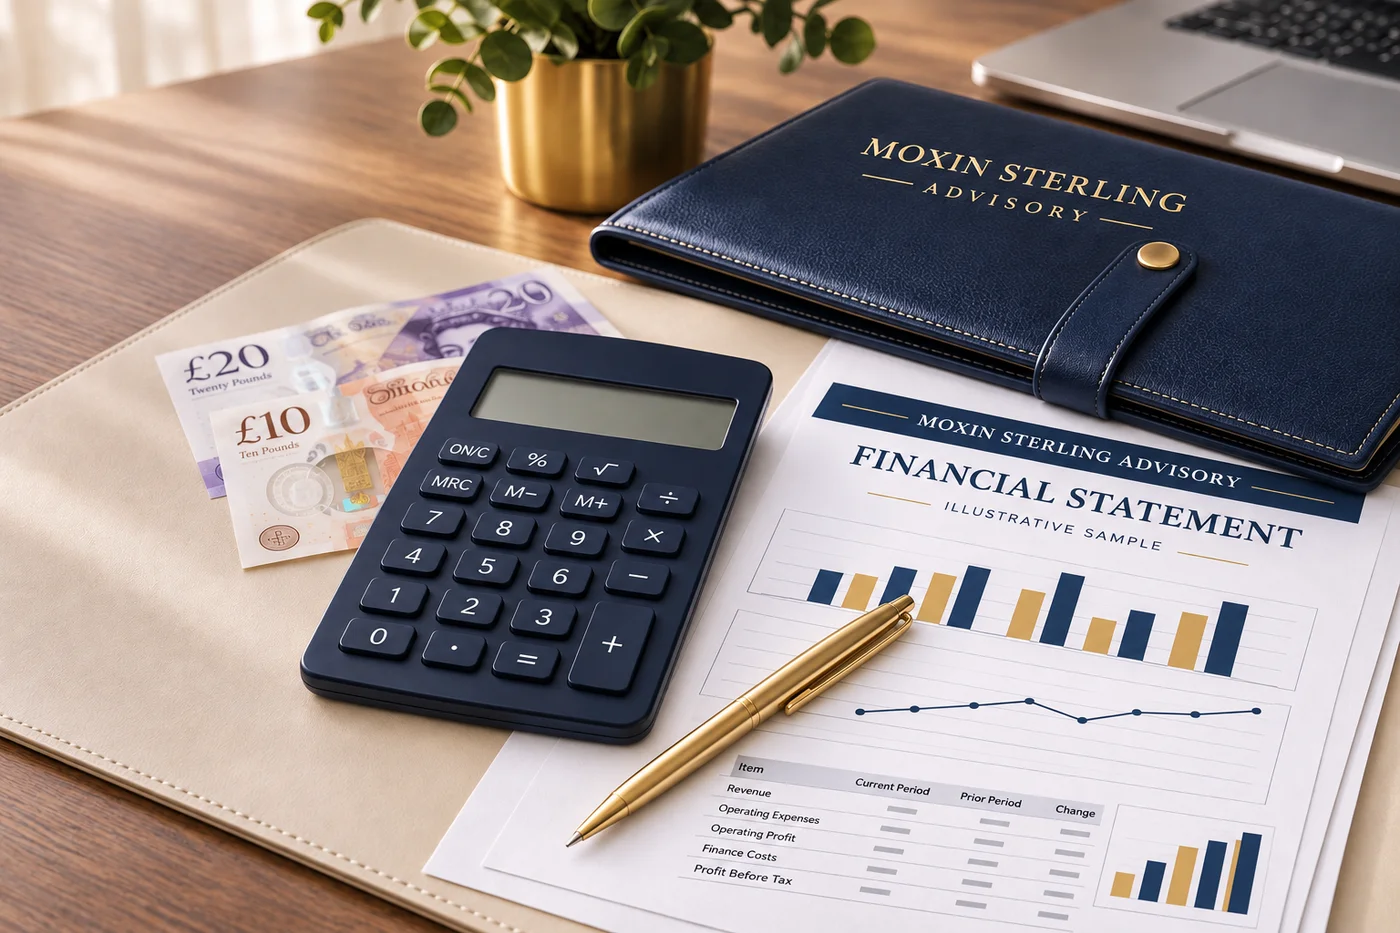
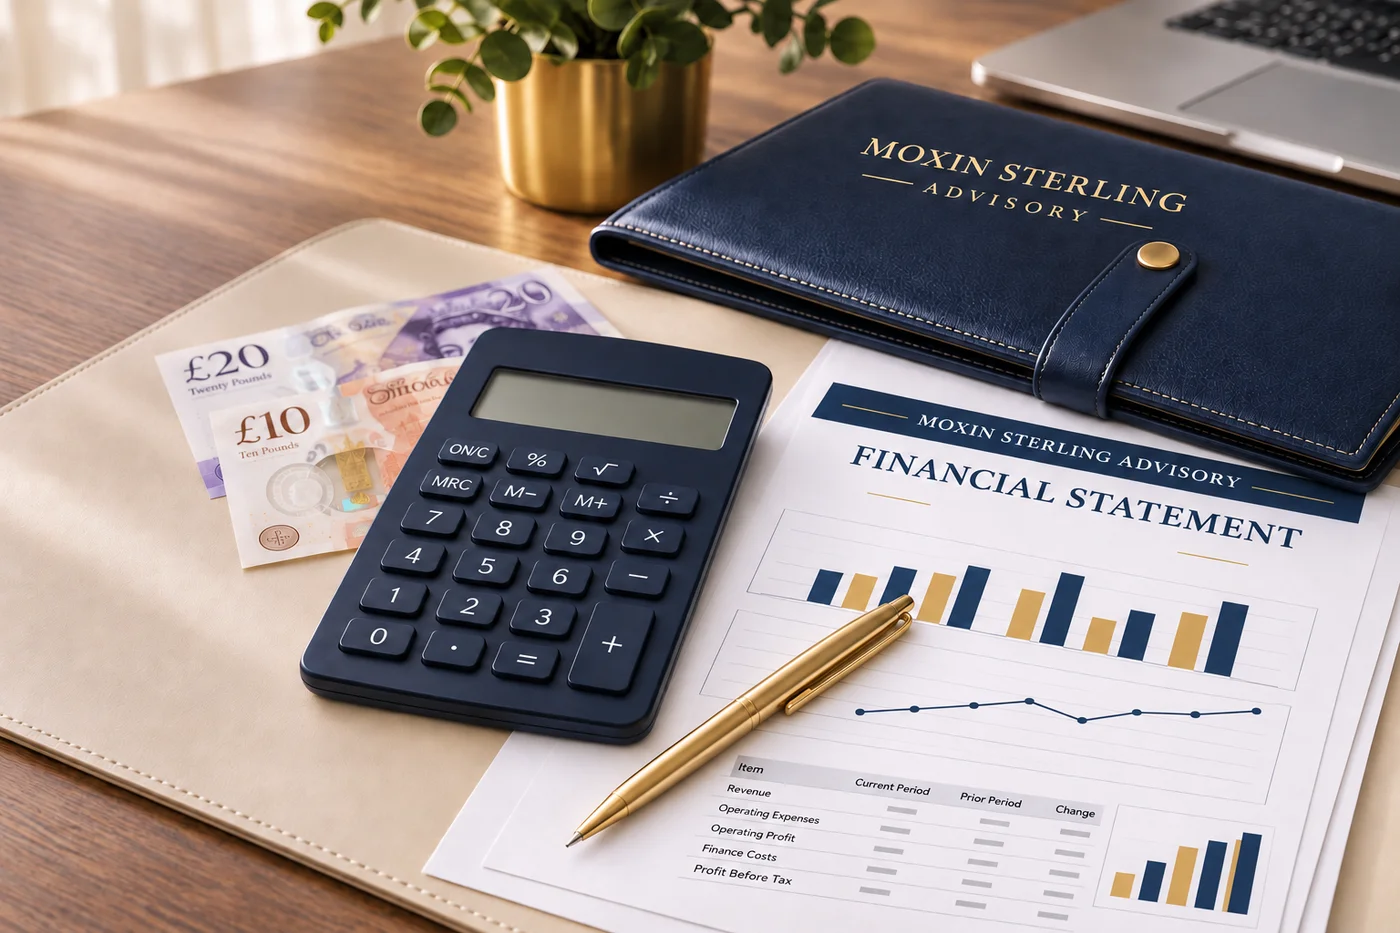
Remove sample subtitle from branded accounting hero artwork

diff --git a/docs/HERO-IMAGE.md b/docs/HERO-IMAGE.md
@@ -1,7 +1,7 @@
 # Branded financial-statement hero illustration
 
-At the owner's request, the accounting-desk illustration now has Moxin Sterling Advisory lettering on the navy folder and on a report headed Financial Statement. The report is marked Illustrative Sample and contains generic charts and table headings, not real client or firm financial results. British pound notes, a calculator and a gold pen remain in the scene.
+At the owner's request, the accounting-desk illustration now has Moxin Sterling Advisory lettering on the navy folder and on a report headed Financial Statement. The report contains generic charts and table headings, not real client or firm financial results. The owner requested removal of the visible Illustrative Sample subtitle. British pound notes, a calculator and a gold pen remain in the scene.
 
-The edited original is preserved at /workspace/generated_images/exec-93900620-42d8-46f4-8c81-d2be6d47a511.png and copied unchanged to public/finance-hero.png. Build preparation generates responsive 800px and 1400px WebP variants. Header branding and the accessible company-name caption remain live website text.
+The edited original is preserved at /workspace/generated_images/exec-7d1ce1f5-570c-4b8f-8960-ea59bae8a8b0.png and copied unchanged to public/finance-hero.png. Build preparation generates responsive 800px and 1400px WebP variants. Header branding and the accessible company-name caption remain live website text.
 
 The illustration is desktop/tablet-only. Mobile retains the compact text hero. This source update is separate from gh-pages publication.
